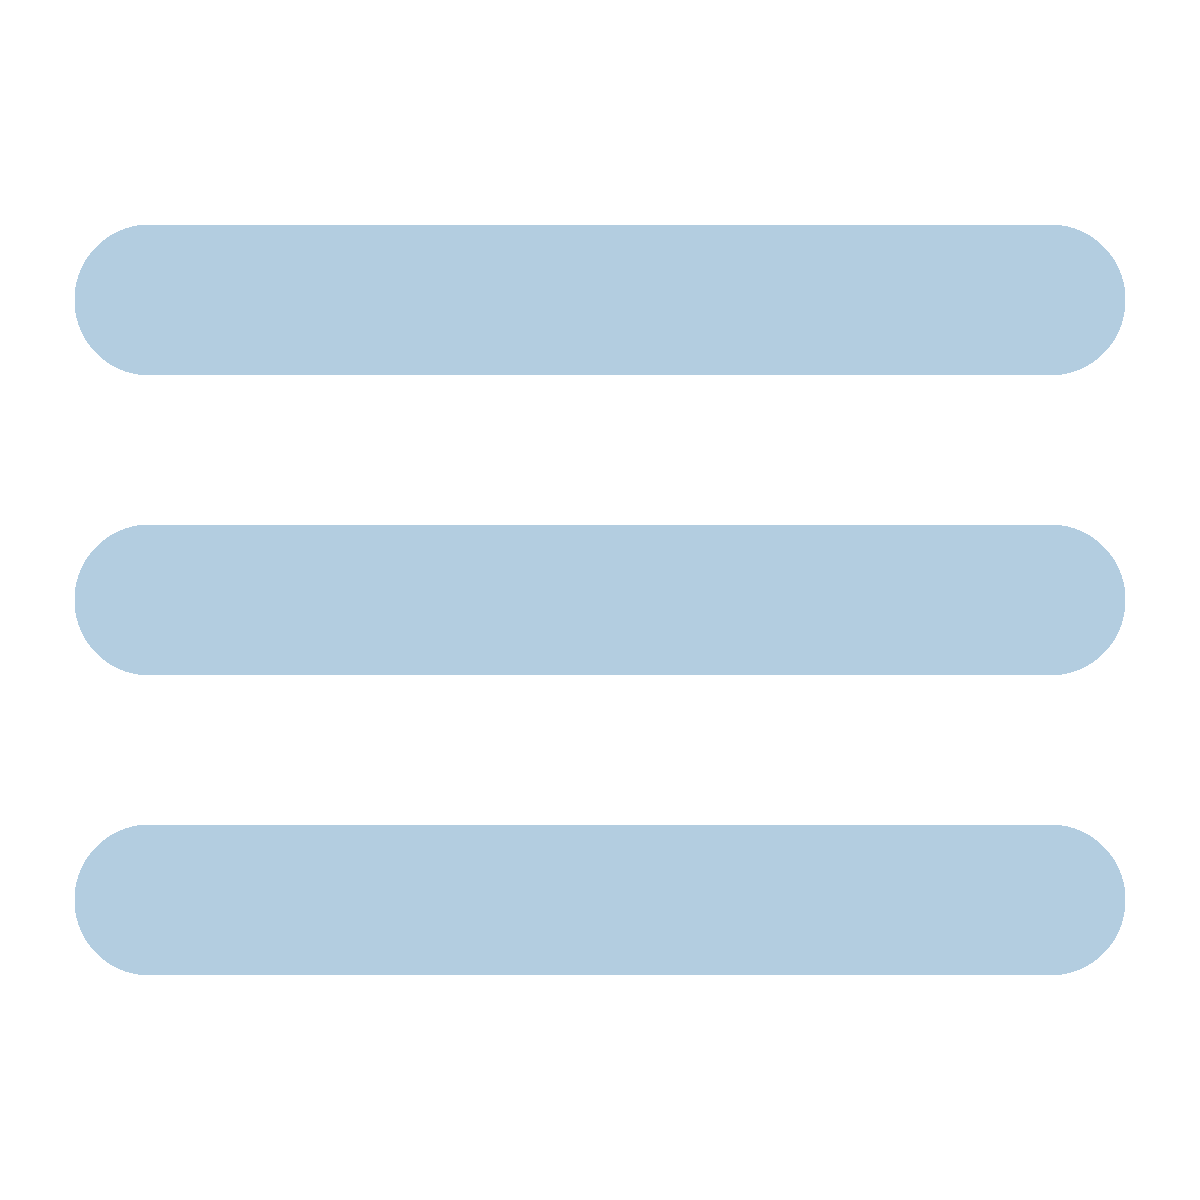
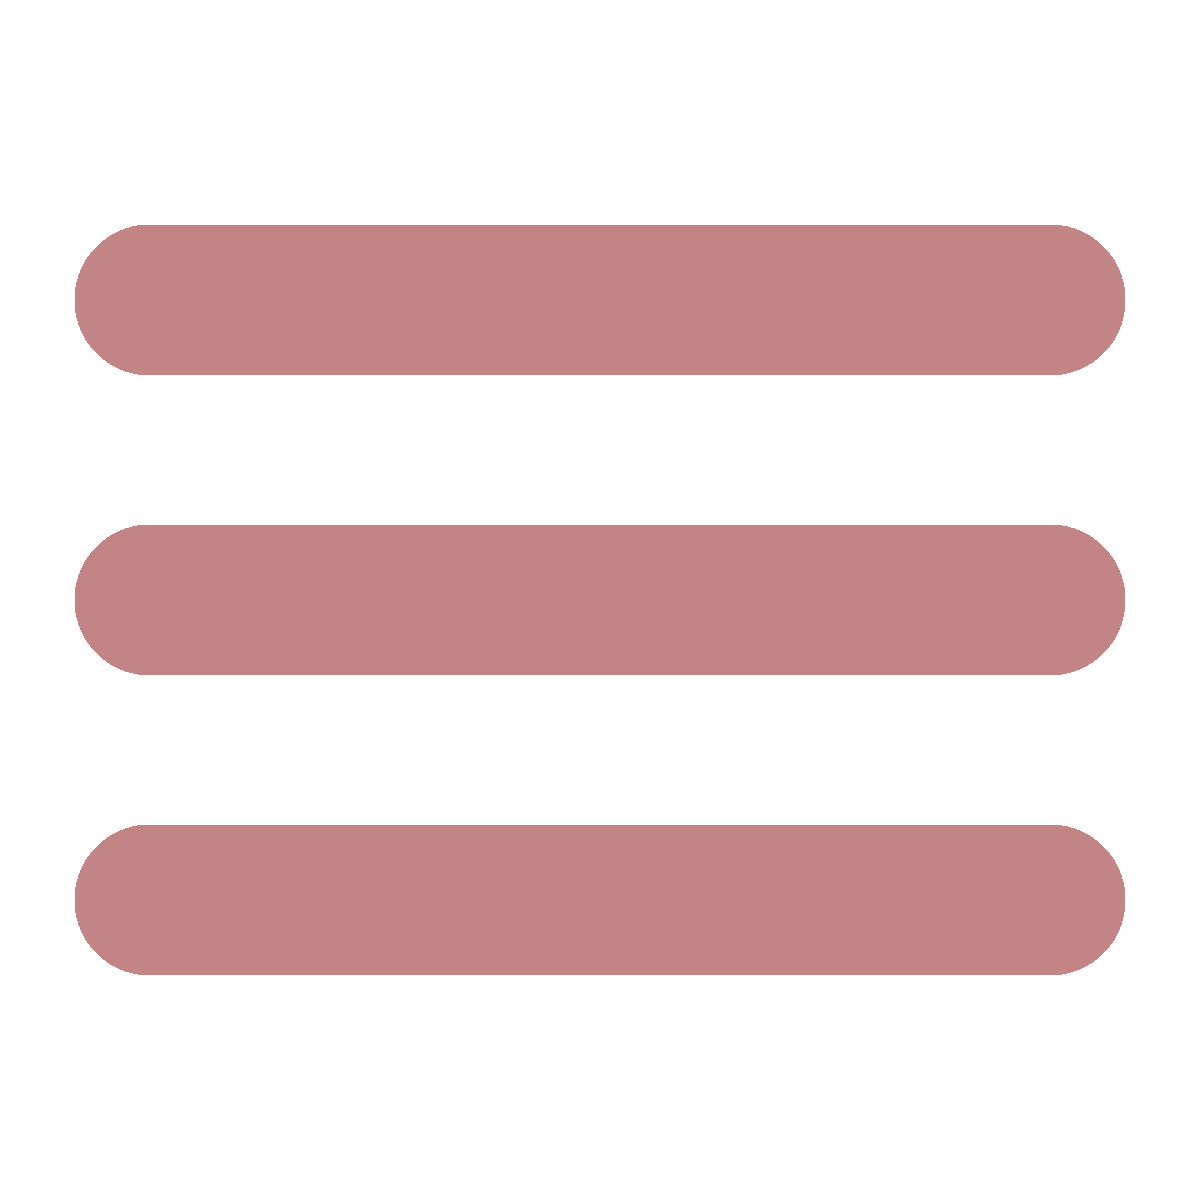
fix mobile styles

diff --git a/src/components/MenuBar.svelte b/src/components/MenuBar.svelte
@@ -54,7 +54,7 @@
 		width: 45px;
 		height: 45px;
 		z-index: 5;
-		background: #252835;
+		background: #fcccd3;
 		border-radius: 5px;
 	}
 
@@ -74,13 +74,17 @@
 		right: -100%;
 		transition: all 0.5s ease-in-out;
 		z-index: 10;
-		background: #b3cde0;
+		background: #c28485;
 	}
 
 	.mobile-menu.show {
 		display: block;
 		top: 0;
 		right: 0;
+	}
+
+	.show a {
+		color: #303030;
 	}
 
 	.close-menu {
